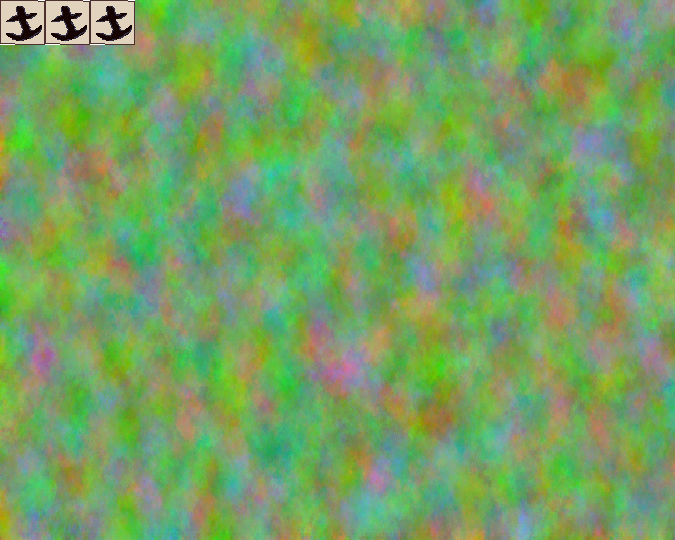
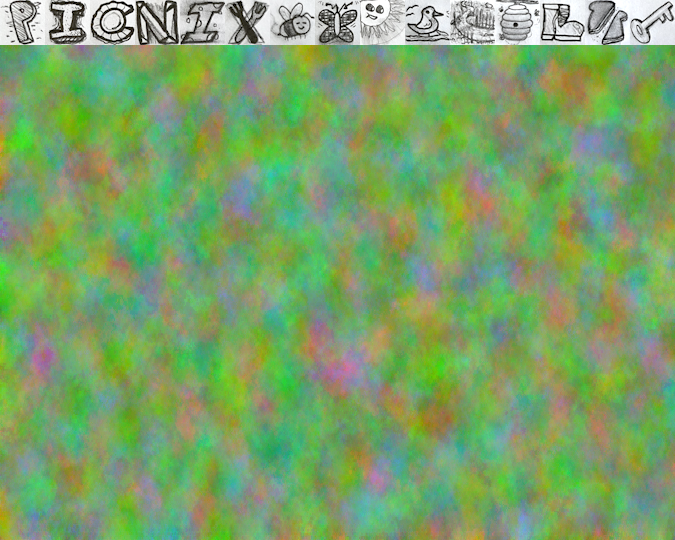
Some new art, including gallery images and WinState background.

Changed region(s): [[0.0, 0.0, 1.0, 0.0889]]

diff --git a/Picnix/src/resource/bank/ImageBank.java b/Picnix/src/resource/bank/ImageBank.java
@@ -19,6 +19,9 @@ public class ImageBank {
 	public static BufferedImage paratest1;
 	public static BufferedImage paratest2;
 	public static BufferedImage paratest3;
+	public static BufferedImage winparatest1;
+	public static BufferedImage winparatest2;
+	public static BufferedImage winparatest3;
 	public static BufferedImage[] parkobjsheet;
 	public static BufferedImage[] treeobjsheet;
 	public static BufferedImage mushroom;
@@ -143,6 +146,9 @@ public class ImageBank {
 		paratest1 = loadSheet("testpara1.png");
 		paratest2 = loadSheet("testpara2.png");
 		paratest3 = loadSheet("testpara3.png");
+		winparatest1 = loadSheet("winparatest1.png");
+		winparatest2 = loadSheet("winparatest2.png");
+		winparatest3 = loadSheet("winparatest3.png");
 		mushroom = loadSheet("mushroom.png");
 		// island objs
 		BufferedImage parkobj = loadSheet("parkobj.png");
@@ -255,7 +261,7 @@ public class ImageBank {
 		numsmed = loadMany(blanketSheet, 86, 140, 8, 10, 5, 2);
 		numstiny = loadMany(blanketSheet, 161, 75, 6, 7, 5, 4);
 		isoplate = loadOne(blanketSheet, 141, 218, 33, 16);
-		streakWords = loadMany(blanketSheet, 126, 110, 75, 17, 1, 5);
+		streakWords = loadMany(blanketSheet, 126, 110, 75, 16, 1, 5);
 		// foods (placeholder)
 		BufferedImage foodSheet = loadSheet("food.png");
 		foods35 = new BufferedImage[PuzzleState.NUM_FOOD_TYPES];

diff --git a/Picnix/src/state/WinState.java b/Picnix/src/state/WinState.java
@@ -13,6 +13,7 @@ import engine.Engine;
 import engine.Input;
 import engine.Transition;
 import picnix.Level;
+import picnix.Parallax;
 import picnix.World;
 import picnix.puzzle.Puzzle;
 import resource.bank.FontBank;
@@ -93,6 +94,8 @@ public class WinState extends State {
 	private Level level;
 	private Puzzle[] puzzles;
 	
+	private Parallax background;
+	
 	public WinState(World world, Level level) {
 		this.world = world;
 		this.level = level;
@@ -164,6 +167,12 @@ public class WinState extends State {
 		for (int r = 0; r < rows; r++)
 			for (int c = 0; c < cols; c++)
 					tryCreateFood(visited, r, c);
+		// parallax
+		background = new Parallax(true, true);
+		background.addLayer(ImageBank.winparatest1, 0, 6000, true);
+		background.addLayer(ImageBank.winparatest2, 0, 4000, true);
+		//background.addLayer(ImageBank.winparatest3, 0, -4500, true);
+		background.resumeScroll();
 	}
 
 	private void tryCreateFood(boolean[][] visited, int r, int c) {
@@ -337,6 +346,9 @@ public class WinState extends State {
 
 	@Override
 	public void render(Graphics g) {
+		g.setColor(Palette.MAGENTA);
+		g.fillRect(0, 0, Engine.SCREEN_WIDTH, Engine.SCREEN_HEIGHT);
+		background.render(g);
 		if (state == FREEFALL) {
 			double progress = sceneTimer.elapsed() / (double) FREEFALL_DURATION;
 			boolean plates = progress < 0.5;
